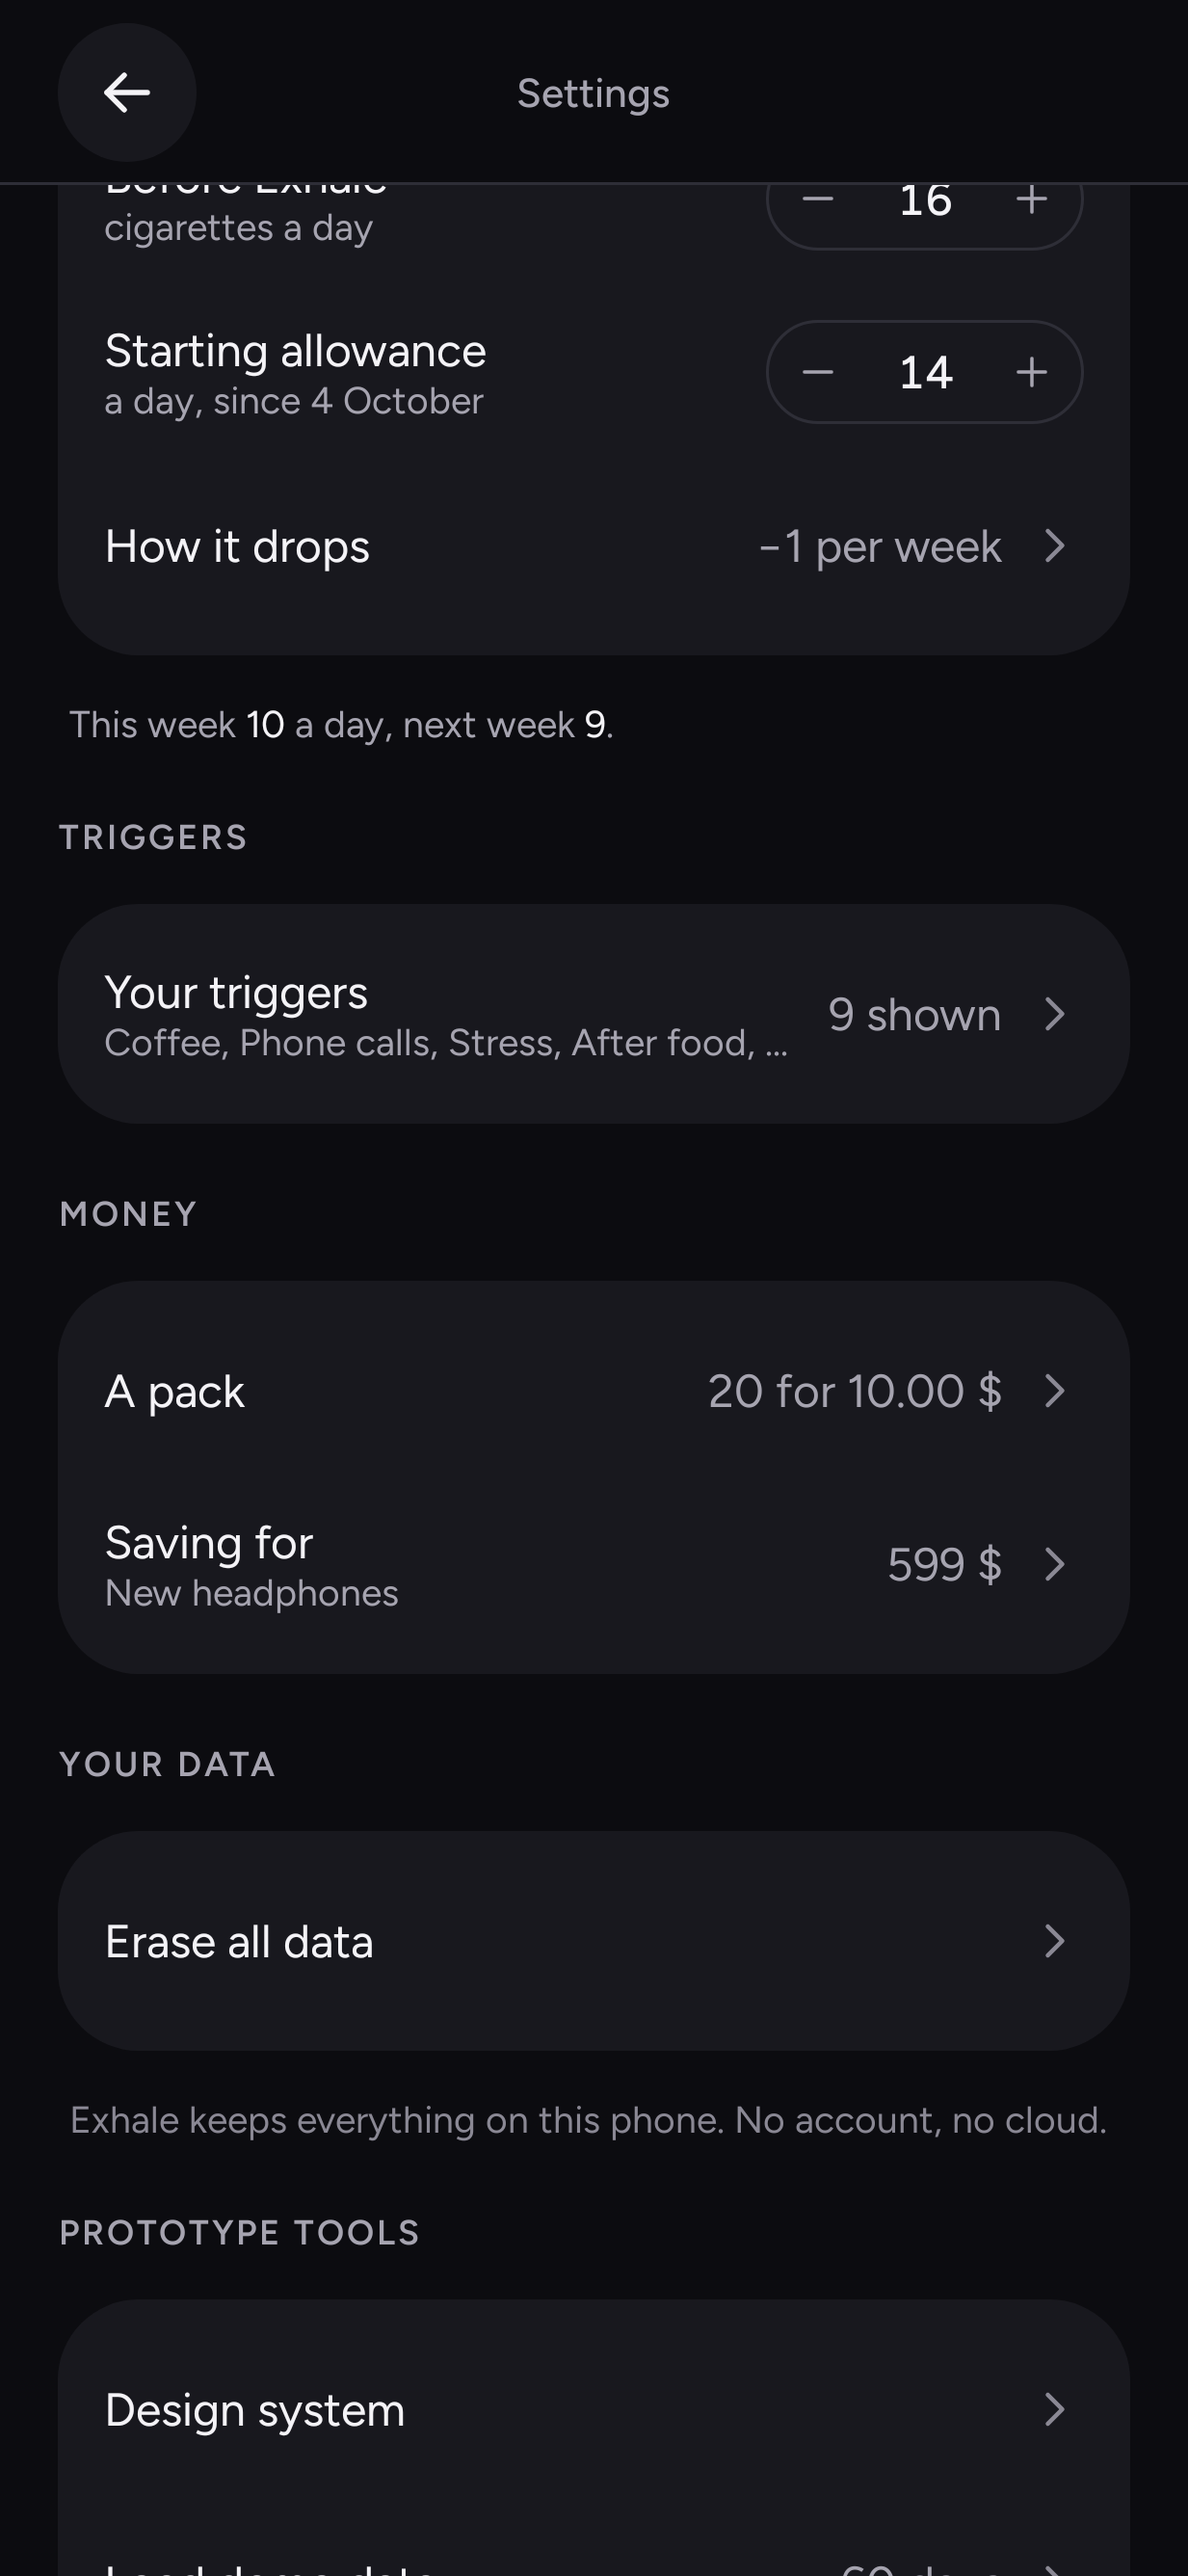
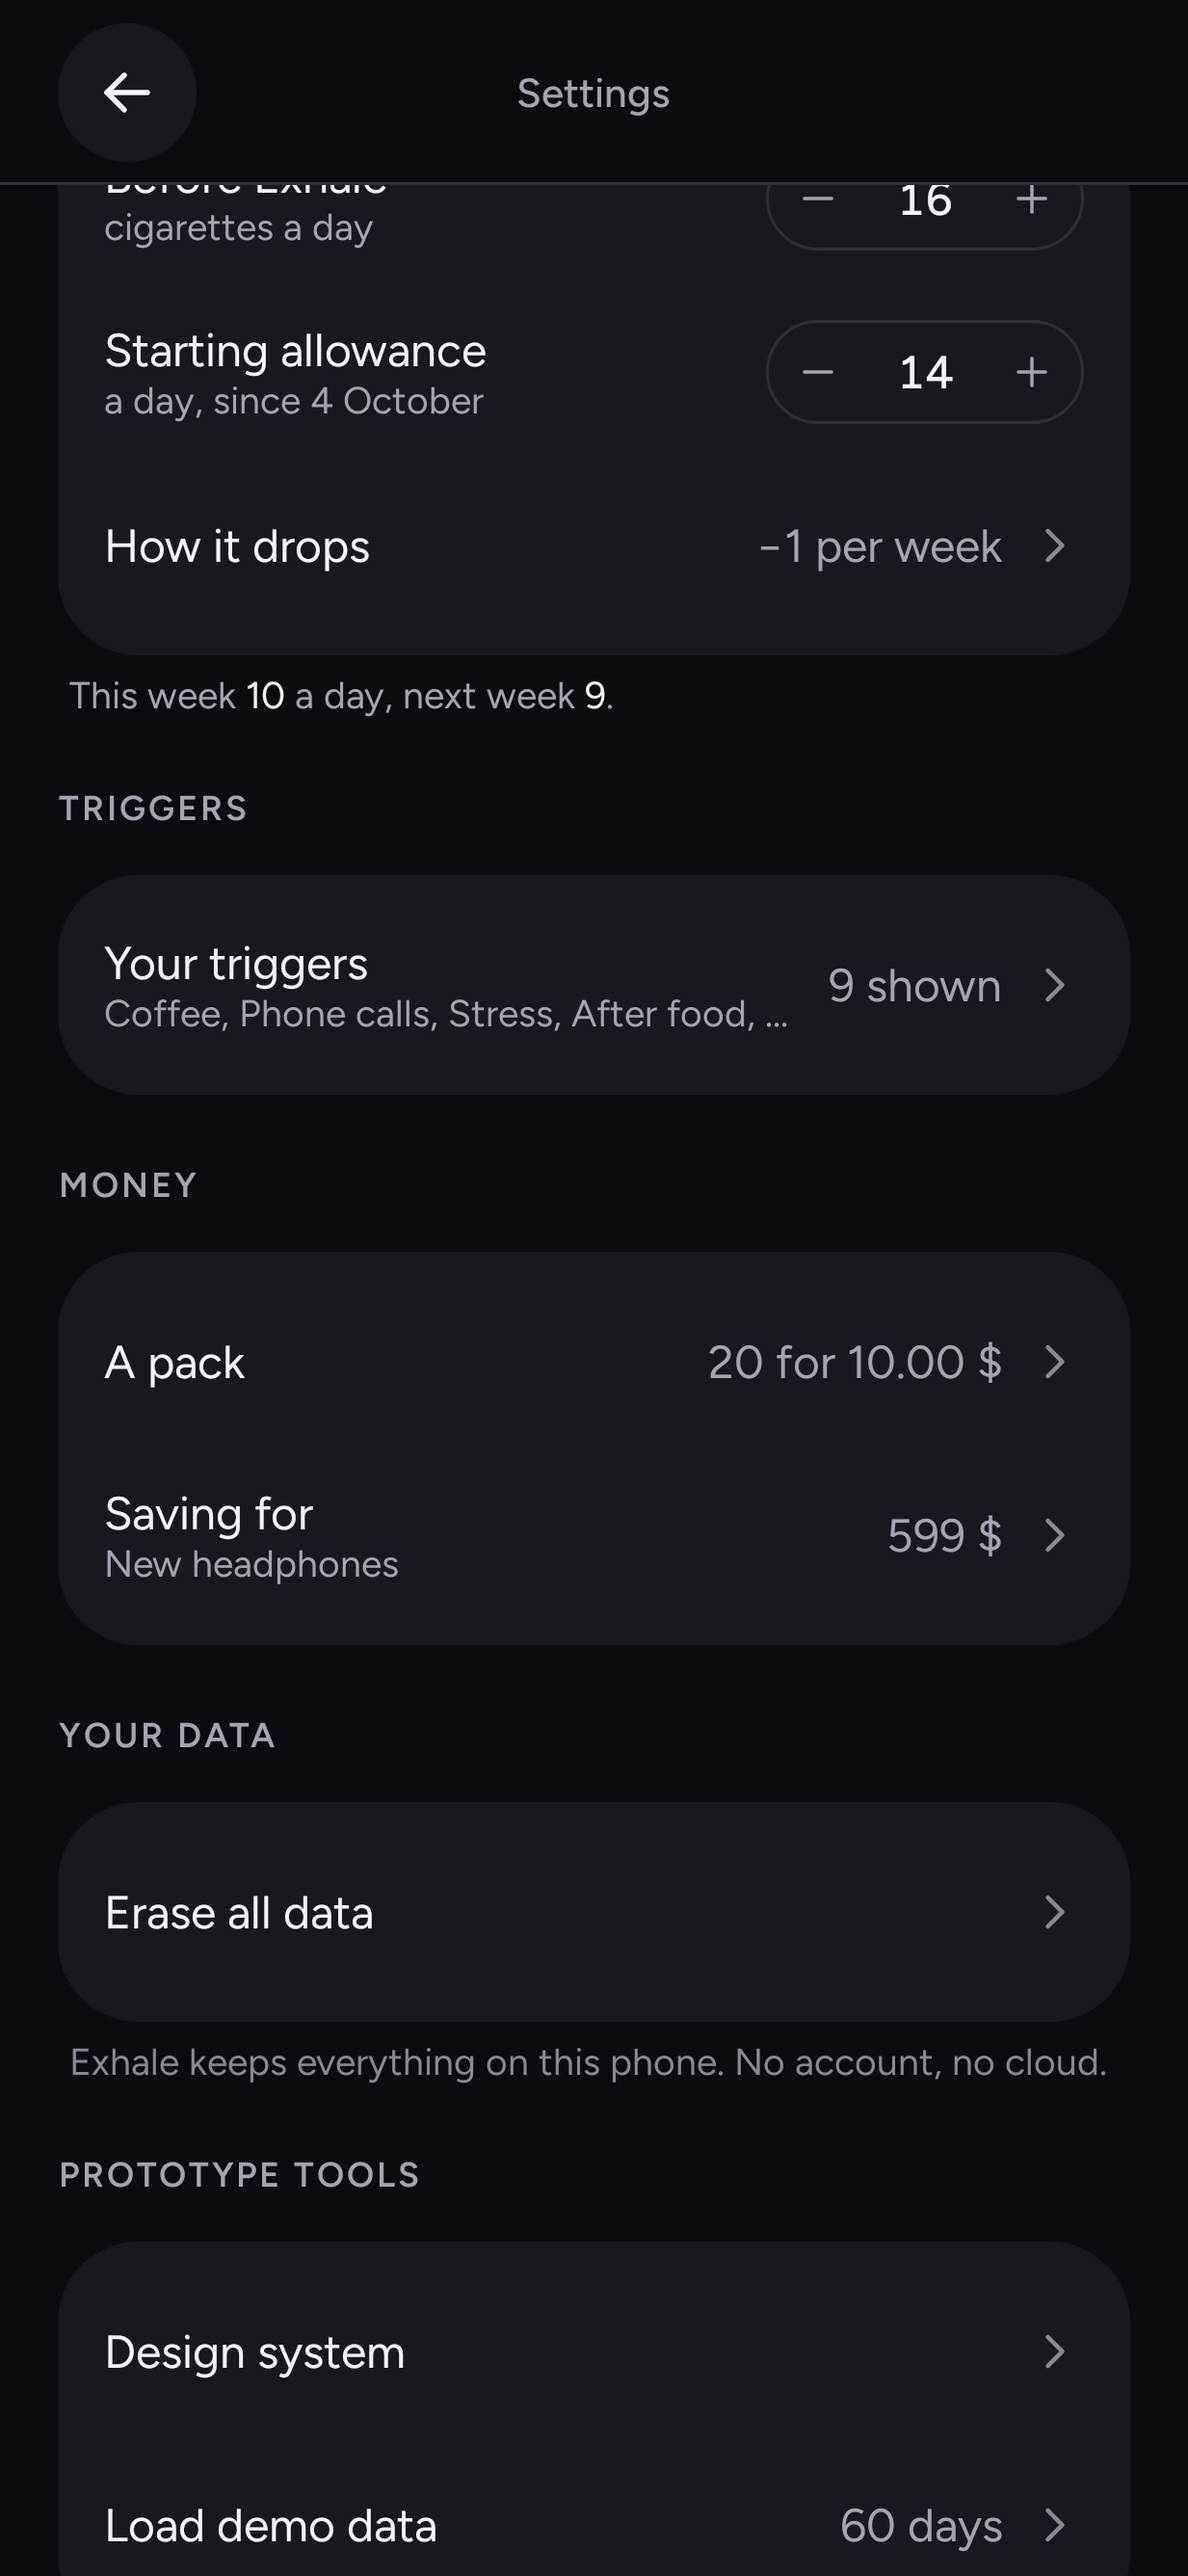
Settings: captions sit 6dp under their cards
Claude-Session: https://claude.ai/code/session_018i9YmtPViAYyBEGPqNTxhS

diff --git a/app/src/main/java/app/exhale/ui/screens/SettingsScreen.kt b/app/src/main/java/app/exhale/ui/screens/SettingsScreen.kt
@@ -257,12 +257,14 @@ private fun SettingsMain(
             )
 
             Overline("Plan", Modifier.paddingTop())
-            ExCard(padding = ExSpace.sm) {
-                CounterRow("Before Exhale", baseline, onBaseline, 1..SettingsInput.COUNT_MAX, caption = "cigarettes a day", changed = baselineChanged)
-                CounterRow("Starting allowance", allowance, onAllowance, 0..SettingsInput.COUNT_MAX, caption = "a day, since ${Fmt.dayMonth(current.planStart)}", changed = allowanceChanged)
-                ListRow("How it drops", { onOpen(SettingsPage.TAPER) }, value = current.taper.label)
+            CardWithCaption {
+                ExCard(padding = ExSpace.sm) {
+                    CounterRow("Before Exhale", baseline, onBaseline, 1..SettingsInput.COUNT_MAX, caption = "cigarettes a day", changed = baselineChanged)
+                    CounterRow("Starting allowance", allowance, onAllowance, 0..SettingsInput.COUNT_MAX, caption = "a day, since ${Fmt.dayMonth(current.planStart)}", changed = allowanceChanged)
+                    ListRow("How it drops", { onOpen(SettingsPage.TAPER) }, value = current.taper.label)
+                }
+                PlanLine(current.copy(startAllowance = allowance), today, baseline)
             }
-            PlanLine(current.copy(startAllowance = allowance), today, baseline)
 
             Overline("Triggers", Modifier.paddingTop())
             ExCard(padding = ExSpace.sm) {
@@ -280,16 +282,20 @@ private fun SettingsMain(
             }
 
             Overline("Your data", Modifier.paddingTop())
-            ExCard(padding = ExSpace.sm) { ListRow("Erase all data", onErase) }
-            Footnote("Exhale keeps everything on this phone. No account, no cloud.")
+            CardWithCaption {
+                ExCard(padding = ExSpace.sm) { ListRow("Erase all data", onErase) }
+                Footnote("Exhale keeps everything on this phone. No account, no cloud.")
+            }
 
             if (tools != null) {
                 Overline("Prototype tools", Modifier.paddingTop())
-                ExCard(padding = ExSpace.sm) {
-                    ListRow("Design system", tools.onDesignSystem)
-                    ListRow("Load demo data", tools.onDemo, value = "60 days")
+                CardWithCaption {
+                    ExCard(padding = ExSpace.sm) {
+                        ListRow("Design system", tools.onDesignSystem)
+                        ListRow("Load demo data", tools.onDemo, value = "60 days")
+                    }
+                    Footnote("Shown in debug builds only.")
                 }
-                Footnote("Shown in debug builds only.")
             }
         }
         AnimatedVisibility(
@@ -310,6 +316,12 @@ private fun SettingsMain(
             }
         }
     }
+}
+
+/** A card and the caption under it, held close so the caption reads as part of the card. */
+@Composable
+private fun CardWithCaption(content: @Composable ColumnScope.() -> Unit) {
+    Column(verticalArrangement = Arrangement.spacedBy(6.dp), content = content)
 }
 
 /** "This week 11 a day, next week 10." for the plan as counted on screen, saved or not. */
